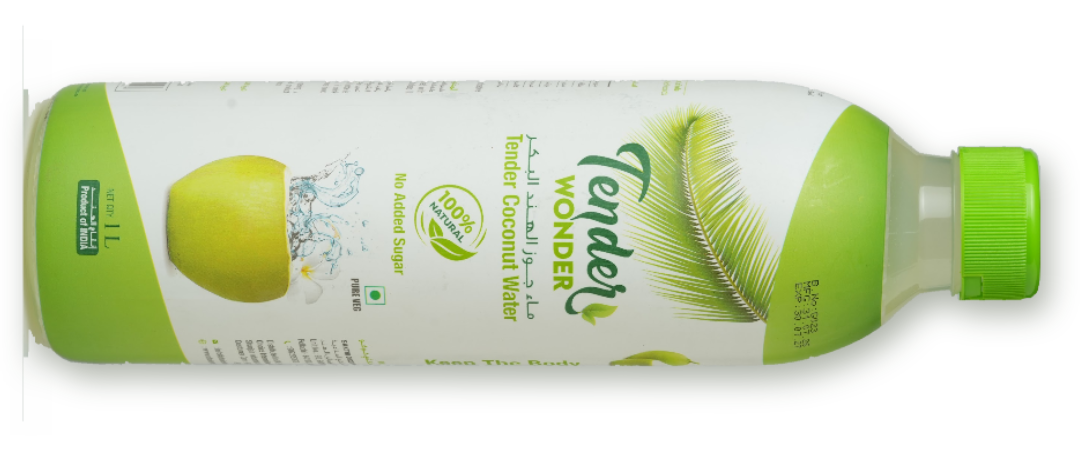
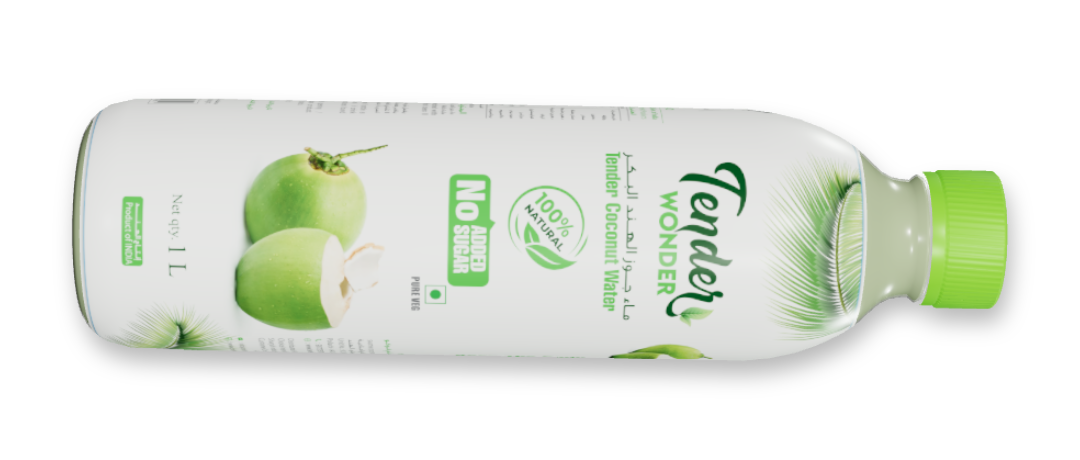
Apply authentic 1L label from TENDER WONDER 1LITER.ai with centered alignment and update 1L bottle assets

diff --git a/src/main.js b/src/main.js
@@ -672,6 +672,7 @@ if (heroStage) {
   renderer = new THREE.WebGLRenderer({
     antialias: true,
     alpha: true,
+    preserveDrawingBuffer: true,
     powerPreference: 'high-performance'
   });
   renderer.setSize(width, height);
@@ -812,15 +813,15 @@ if (heroStage) {
   const sleeveGeo = createRevolvedGeometry(sleevePts, 64, sleevePts[0].z, sleevePts[sleevePts.length - 1].z);
 
   const texLoader = new THREE.TextureLoader();
-  const labelAlbedoTex = texLoader.load('/textures/label_albedo.png?v=16', (t) => {
+  const labelAlbedoTex = texLoader.load('/textures/label_albedo.png?v=17', (t) => {
     t.colorSpace = THREE.SRGBColorSpace;
     t.wrapS = THREE.RepeatWrapping;
     t.wrapT = THREE.ClampToEdgeWrapping;
-    t.offset.x = 0.0; // Front face (Tender WONDER, 2 coconuts, Net qty. 1 L) centered at camera angle
+    t.offset.x = -0.117; // Front face (Tender WONDER, 2 coconuts, Net qty. 1 L) centered at camera angle
     t.anisotropy = renderer.capabilities.getMaxAnisotropy();
   });
   labelAlbedoTex.wrapS = THREE.RepeatWrapping;
-  labelAlbedoTex.offset.x = 0.0;
+  labelAlbedoTex.offset.x = -0.117;
   window.labelAlbedoTex = labelAlbedoTex;
 
   const sleeveMat = new THREE.MeshStandardMaterial({
